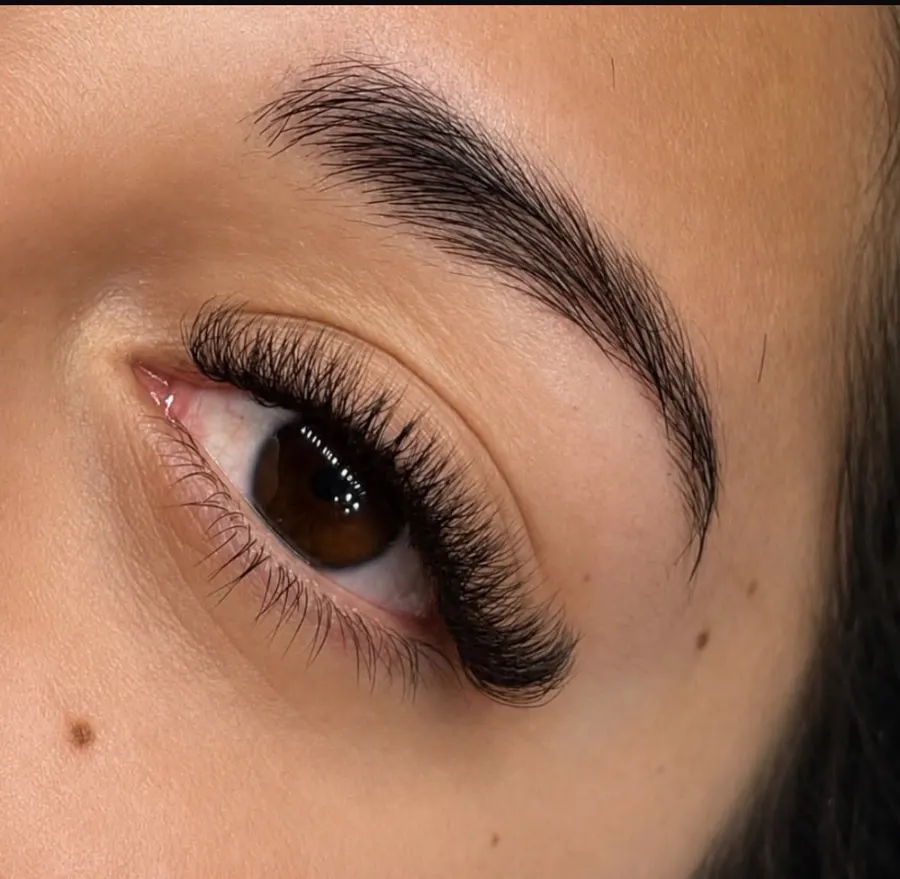
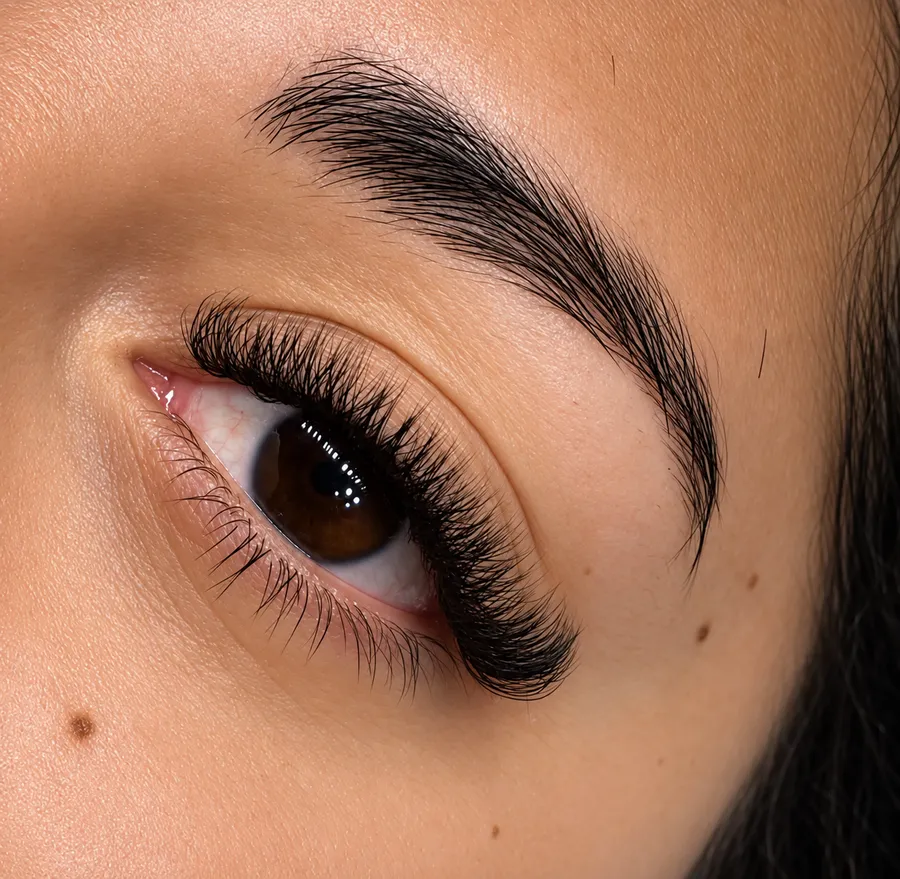
Ajustes da cliente: capa com polaroides, atraso de 10 min e nova foto
- Capa: polaroides de cílios e sobrancelhas, título todo em itálico;
  no celular as polaroides ficam entre o título e o texto
- Tolerância de atraso: 10 minutos
- Como funciona: foto do Volume Glamour no lugar do pôster, pincel com gel
  mantido e cílios postiços removidos
- Foto do Volume Glamour atualizada e otimizada

diff --git a/src/components/site/Hero.jsx b/src/components/site/Hero.jsx
@@ -2,8 +2,9 @@ import { Instagram } from '../ui/Icones'
 import { LogoCompleto } from '../ui/Logo'
 import { useStore } from '../../store/Store'
 
-// Capa num fundo único cinza claro (fundo de estúdio): logo e texto à esquerda,
-// a luva preta com os pincéis saindo da borda de baixo, à direita.
+// Capa num fundo único cinza claro (fundo de estúdio).
+// Computador: logo e texto à esquerda, polaroides à direita.
+// Celular: polaroides grandes no topo, saindo pelas bordas, e o texto logo abaixo.
 export default function Hero() {
   const { config } = useStore().db
 
@@ -12,23 +13,30 @@ export default function Hero() {
       id="inicio"
       className="tema-claro relative min-h-[100svh] overflow-hidden text-neutral-900 bg-[radial-gradient(ellipse_at_70%_40%,#f2f2f2_0%,#dcdcdc_45%,#c4c4c4_100%)]"
     >
-      {/* Luva: embaixo à direita, encostada na borda de baixo */}
-      <div className="absolute bottom-0 right-0 lg:right-[4%] h-[46svh] sm:h-[55svh] lg:h-[88%] w-full lg:w-[52%] flex justify-center lg:justify-end items-end pointer-events-none">
+      {/* Polaroides no computador, fixas à direita (no celular ficam entre o título e o texto) */}
+      <div className="hidden lg:flex absolute inset-y-0 right-[3%] w-[52%] pt-16 justify-end items-center pointer-events-none">
         <img
-          src="/img/luva-pinceis.webp"
-          alt="Mão com luva preta segurando pincéis de cílios"
-          className="h-full w-auto max-w-none drop-shadow-[0_30px_40px_rgba(0,0,0,0.25)] animate-fade-up"
+          src="/img/polaroides.webp"
+          alt="Polaroides com fotos de cílios e sobrancelhas"
+          className="h-[82%] w-auto max-w-none drop-shadow-[0_30px_40px_rgba(0,0,0,0.25)] animate-fade-up"
         />
       </div>
 
-      <div className="relative max-w-7xl mx-auto px-5 sm:px-8 min-h-[100svh] flex items-start lg:items-center pt-24 pb-[48svh] sm:pb-[57svh] lg:py-28">
+      <div className="relative max-w-7xl mx-auto px-5 sm:px-8 lg:min-h-[100svh] flex items-start lg:items-center pt-24 pb-16 lg:py-28">
         <div className="w-full lg:w-[46%] text-center lg:text-left animate-fade-up">
-          <LogoCompleto claro={false} className="w-44 sm:w-56 mx-auto lg:mx-0" />
+          <LogoCompleto claro={false} className="w-36 sm:w-48 lg:w-56 mx-auto lg:mx-0" />
 
-          <h1 className="font-display font-light leading-[0.95] text-[3rem] sm:text-7xl xl:text-[5rem] mt-8 lg:mt-10">
+          <h1 className="font-display font-light italic leading-[0.95] text-[3rem] sm:text-7xl xl:text-[5rem] mt-6 lg:mt-10">
             Do natural <br />
-            <span className="italic">ao marcante.</span>
+            ao marcante.
           </h1>
+
+          {/* Celular: polaroides entre o título e o texto, sem cobrir o logo */}
+          <img
+            src="/img/polaroides.webp"
+            alt="Polaroides com fotos de cílios e sobrancelhas"
+            className="lg:hidden w-[78%] max-w-sm mx-auto mt-8 drop-shadow-[0_20px_30px_rgba(0,0,0,0.2)]"
+          />
 
           <div className="h-px w-20 bg-neutral-900/30 my-7 mx-auto lg:mx-0" />
 

diff --git a/src/components/site/ComoFunciona.jsx b/src/components/site/ComoFunciona.jsx
@@ -17,11 +17,9 @@ export default function ComoFunciona() {
 
   return (
     <section id="como-funciona" className="relative bg-[#ececec] text-neutral-900 overflow-hidden">
-      {/* Cílios postiços pretos, decorando o canto da faixa clara */}
-      <img src="/img/cilios-posticos.webp" alt="" aria-hidden="true" loading="lazy" className="hidden sm:block absolute top-16 left-[6%] lg:left-[10%] w-32 md:w-44 opacity-80 -rotate-12 pointer-events-none" />
       <div className="max-w-7xl mx-auto px-4 sm:px-6 py-24 md:py-32 grid lg:grid-cols-[0.9fr_1.1fr] gap-12 lg:gap-20 items-center">
         <div className="relative hidden sm:block">
-          <img src="/img/brows-lashes.webp" alt="" loading="lazy" className="w-full max-w-md mx-auto rounded-[2rem] shadow-[0_30px_60px_-20px_rgba(0,0,0,0.35)]" />
+          <img src="/img/servicos/glamour.webp" alt="Volume Glamour com design de sobrancelha" loading="lazy" className="w-full max-w-md mx-auto rounded-[2rem] shadow-[0_30px_60px_-20px_rgba(0,0,0,0.35)]" />
           <img src="/img/pincel-gel.webp" alt="" aria-hidden="true" loading="lazy" className="absolute -bottom-10 -right-6 w-48 md:w-60 animate-flutuar [--giro:-8deg] drop-shadow-[0_20px_30px_rgba(0,0,0,0.35)]" />
         </div>
 
@@ -51,7 +49,7 @@ export default function ComoFunciona() {
               <Regra>
                 Falta sem aviso gera multa de <strong className="text-white">{config.multaPct}% do valor</strong> (ex.: {ex.nome}, {brl(ex.preco)} → {brl(multaDe(ex.preco, config.multaPct))}), paga antes do próximo agendamento.
               </Regra>
-              <Regra>Atraso acima de 15 minutos pode reduzir o serviço ou exigir remarcação.</Regra>
+              <Regra>Atraso acima de 10 minutos pode reduzir o serviço ou exigir remarcação.</Regra>
             </ul>
           </div>
         </div>

diff --git a/index.html b/index.html
@@ -11,7 +11,7 @@
     <link rel="preconnect" href="https://fonts.googleapis.com" />
     <link rel="preconnect" href="https://fonts.gstatic.com" crossorigin />
     <link href="https://fonts.googleapis.com/css2?family=Cormorant+Garamond:ital,wght@0,300;0,400;0,500;0,600;1,300;1,400;1,500&family=Cinzel:wght@400;500&family=Jost:wght@300;400;500;600&display=swap" rel="stylesheet" />
-    <link rel="preload" as="image" href="/img/luva-pinceis.webp" />
+    <link rel="preload" as="image" href="/img/polaroides.webp" />
   </head>
   <body>
     <div id="root"></div>
